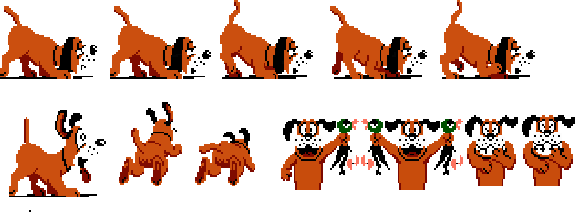
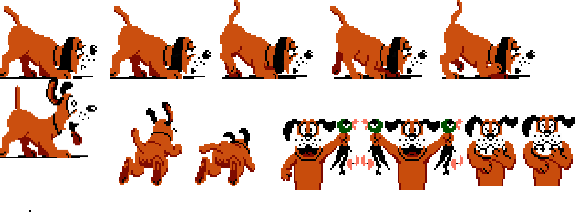
Added opening screen

Changed region(s): [[0.0, 0.3545, 0.1862, 0.9]]

diff --git a/Duck Hunt.py b/Duck Hunt.py
@@ -8,6 +8,7 @@ displaysurf = pygame.display.set_mode((windowwidth,windowheight))
 master_sheet = pygame.image.load('SpriteSheet.png').convert()
 master_sheet.set_colorkey((255,0,255))
 foreground = pygame.transform.scale(master_sheet.subsurface(0,237,300,250), (windowwidth, windowheight))
+opening = pygame.image.load('Opening.png')
 
 duck_wingup = pygame.image.load('Duck.png')
 duck_wingdown = pygame.image.load('Duck_Wingdown.png')
@@ -44,6 +45,7 @@ def main():
     level = 1
     licznik = 0
     chances = 3
+    gameStart()
     gameStartAnim()
     while running:
         if level == 1:
@@ -242,6 +244,17 @@ def sheettest(frames):
             displaysurf.blit(frames[i],(110*i + 5, 0))
         pygame.display.update()
         fpsclock.tick(fps)
+
+def gameStart():
+    opening_screen = True
+    while opening_screen:
+        displaysurf.blit(opening, (0, 0))
+        pygame.display.update()
+        fpsclock.tick(fps)
+        for event in pygame.event.get():
+            if event.type == pygame.KEYDOWN:
+                opening_screen = False
+
 
 #sheettest(spriteSheetCutter(master_sheet, 110, 79, 0, 0, 5, 2))
 #sheettest(dogSpriteSheet())
